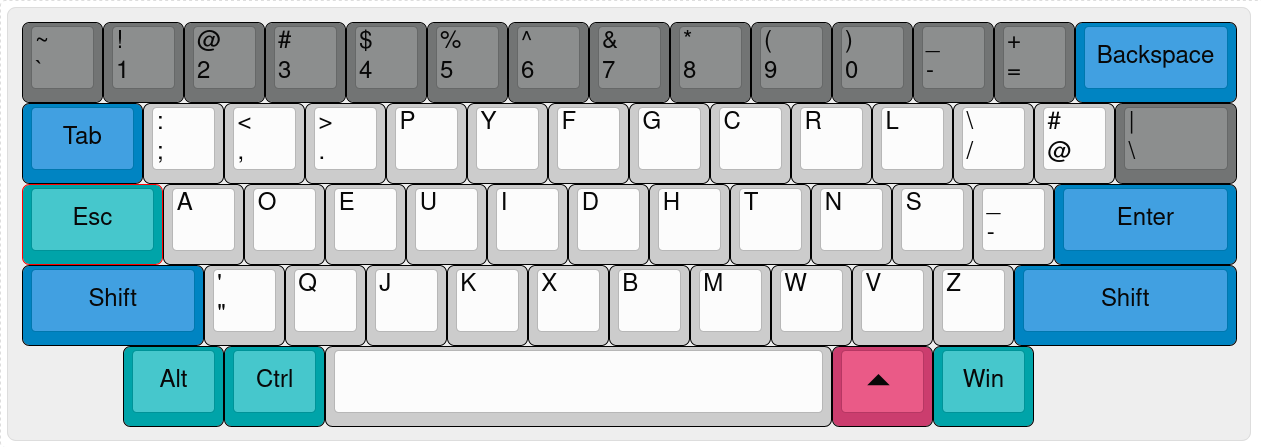
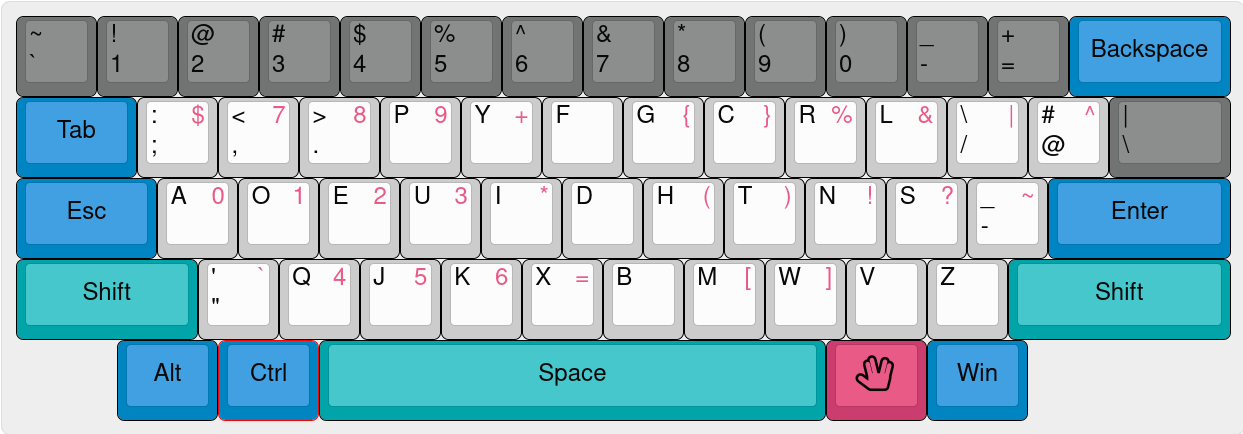
new ver 2.2

diff --git a/README.md b/README.md
@@ -1,21 +1,29 @@
-# Dvorak keyboard layout with layers (DKLWL).
+# Dvorak improved (DIM)
 
+![Dvorak-improved](./images/dvorak-improved.png)
 
 ## Linux install:
 
 run the following commands for install console map and Xorg/Wayland layout:
     
-    git clone https://github.com/neuromagus/dklwl.git
-    cd dklwl
+    git clone https://github.com/neuromagus/dvorak-improved.git
+    cd dvorak-improved/linux
+    sudo make install
+
+if you want install Russian Keyboard layout (typewriter improved)
+
+    cd dvorak-improved/linux/ru
     sudo make install
 
 #### Activation for the VT console (add to /etc/vconsole.conf or similar):
 
-    KEYMAP=dklwl
+    KEYMAP=dvorak-improved
 
 #### Activation for the X11:
 
-    setxkbmap -layout us,yoursecondlanguage -variant dklwl,yourlayoutforsecondlanguage
+    setxkbmap -layout us -variant dim
+    or
+    setxkbmap -layout us,yoursecondlanguage -variant dim,yourlayoutforsecondlanguage
 
 or add in /etc/X11/xorg.conf.d/00-keyboard.conf:
 
@@ -24,7 +32,7 @@ or add in /etc/X11/xorg.conf.d/00-keyboard.conf:
         MatchIsKeyboard "on"
         Option "XkbLayout" "us,yoursecondlanguage"
         Option "XkbModel" "pc104"
-        Option "XkbVariant" "dklwl,yourlayoutforsecondlanguage"
+        Option "XkbVariant" "dim,yourlayoutforsecondlanguage"
         Option "XkbOptions" "grp:win_space_toggle"
     EndSection
 
@@ -32,7 +40,7 @@ or add in /etc/X11/xorg.conf.d/00-keyboard.conf:
 
     input "type:keyboard" {
         xkb_layout us,yoursecondlanguage
-        xkb_variant dklwl,yourlayoutforsecondlanguage
+        xkb_variant dim,yourlayoutforsecondlanguage
         xkb_options grp:win_space_toggle
         repeat_delay 300
         repeat_rate 50

diff --git a/linux/ru/README.md b/linux/ru/README.md
@@ -1,14 +1,16 @@
-# Russian keyboard layout "Typewriters" with layers (dklwlru)
+# Typewriter improved (RUTIM)
 
+![typewriter-improved](../../images/typewriter-improved.png)
 
 ## Linux install:
 
-    cd dklwl/linux/ru
+    git clone https://github.com/neuromagus/dvorak-improved.git
+    cd dvorak-improved/linux/ru
     sudo make install
 
 #### Activation for the Xorg:
 
-    setxkbmap -layout en,ru -variant dklwl,dklwlru
+    setxkbmap -layout en,ru -variant dim,rutim
 
 or add in /etc/X11/xorg.conf.d/00-keyboard.conf:
 
@@ -17,7 +19,7 @@ or add in /etc/X11/xorg.conf.d/00-keyboard.conf:
         MatchIsKeyboard "on"
         Option "XkbLayout" "us,ru"
         Option "XkbModel" "pc104"
-        Option "XkbVariant" "dklwl,dklwlru"
+        Option "XkbVariant" "dim,rutim"
         Option "XkbOptions" "grp:win_space_toggle"
     EndSection
 
@@ -25,7 +27,7 @@ or add in /etc/X11/xorg.conf.d/00-keyboard.conf:
  
     input "type:keyboard" {
         xkb_layout us,ru
-        xkb_variant dklwl,dklwlru
+        xkb_variant dim,rutim
         xkb_options grp:win_space_toggle
         repeat_delay 300
         repeat_rate 50
